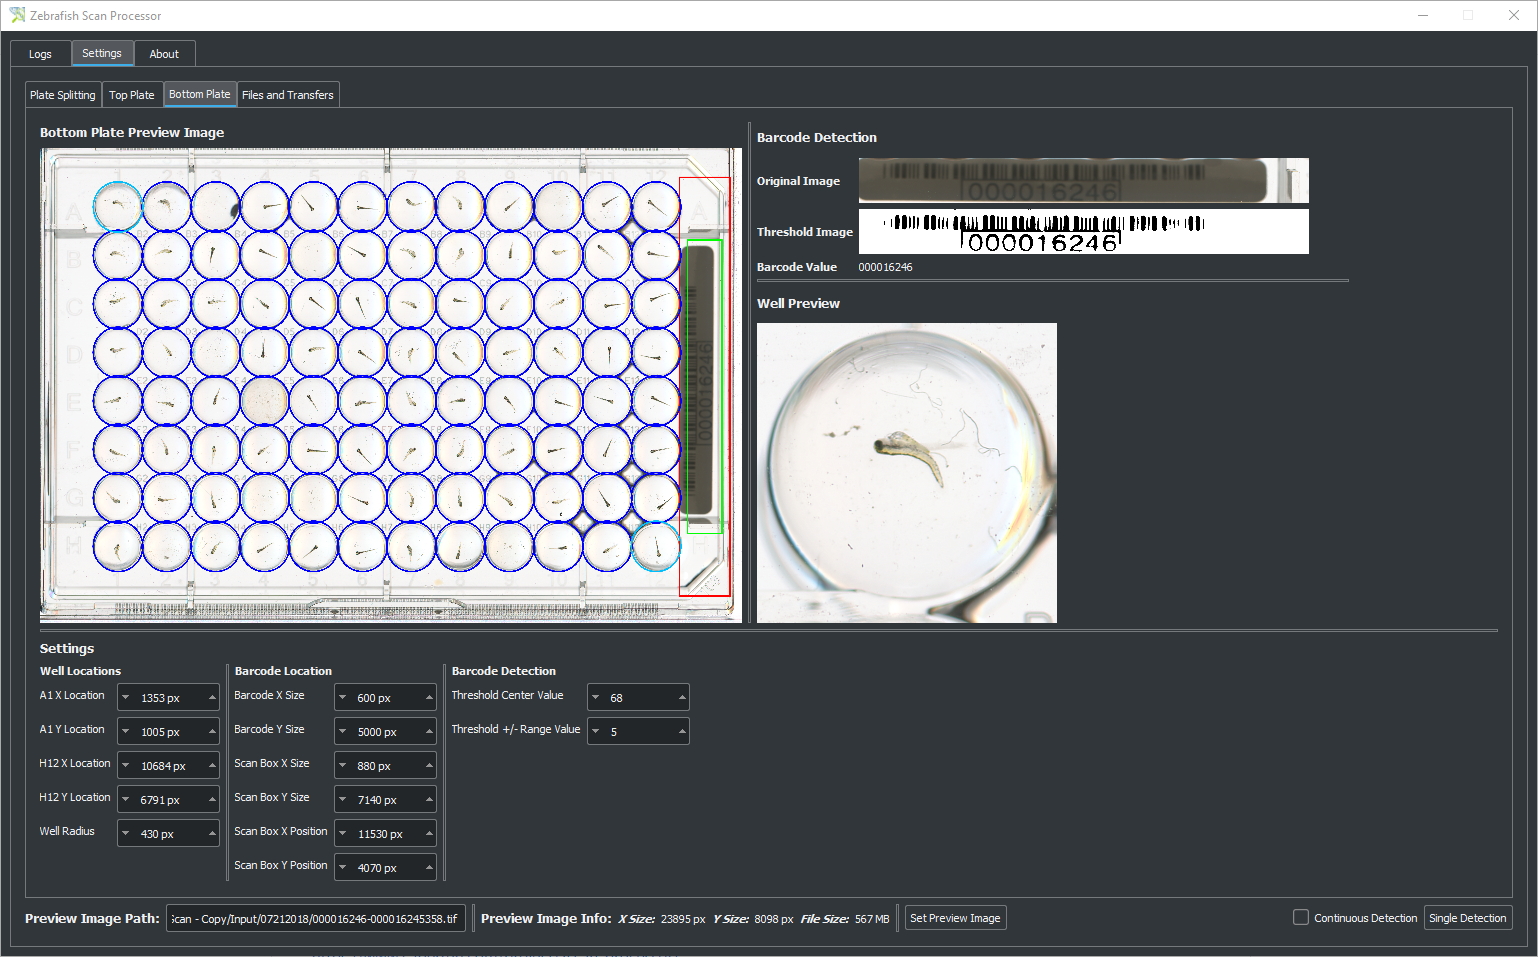
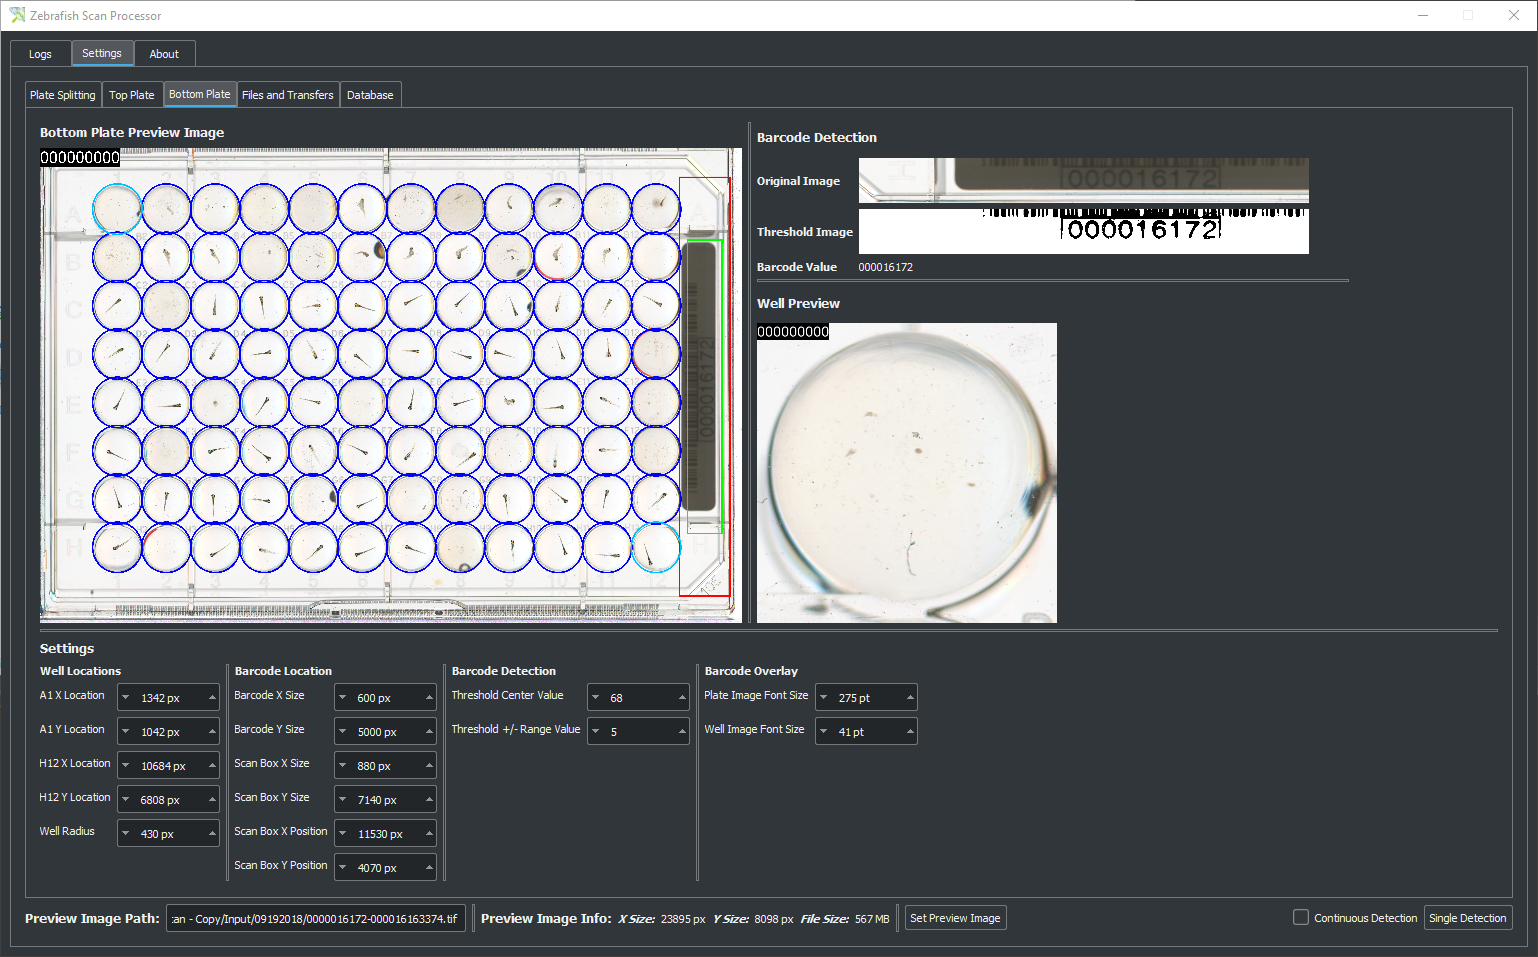
Readme updates for v1.1.0. About to release.

diff --git a/README.md b/README.md
@@ -7,18 +7,35 @@ This application processes high-resolution scanned images of 96-well scientific 
 3. Automatically detects the barcode on each plate to name the outputs automatically.
 4. Splits and names each well based on the scan creation datetime, plate number, and well location.
 5. Saves a compressed version of the individual plate image.
-6. At a designated time, transfers all processed plates to a network share (or specified folder).
+6. Writes the plate name to a MySQL database for quick auditing of completed plates.
+7. At a designated time, transfers all processed plates to a network share/designated transfer folder.
 
 ### Other Features
+* Overlays the detected barcode onto all processed images for easy sanity checking when analyzing images.
 * Minimizes to tray area for unobtrusive background processing.
 * Provides system notifications when plates are processed/fail.
 * Maintains logs of all detections, transfers, and failures.
 * Includes built-in calibration interface for easy adjustment to scanner and plate differences.
+* Allows for a custom MySQL insert string for easy adaptation to different database layouts (may add more features later).
 * Saves full-resolution backups of failed plates to ensure data is not lost.
 
+##### Special Note
+The database section of this program does NOT hash the password. It is stored in plaintext in the registry.
+Please keep this in mind when creating a MySQL user for this application.
+
 ## Screenshots
-### Processed Outputs Example
-![output]
+### Processed Outputs
+#### Full Plate
+![plate_example]
+
+#### Plate Well
+![well_example]
+
+#### Explorer Preview
+![explorer_preview]
+
+### Folder Structure
+![folder_structure]
 
 ### Logs Screen
 ![logs]
@@ -35,20 +52,31 @@ This application processes high-resolution scanned images of 96-well scientific 
 ### Settings - Files and Transfers
 ![settings_files_transfers]
 
+### Settings - Database
+![settings_database]
+
 ### System Notifications
 ![system_notification]
 
 ### Tray Icon
 ![tray_icon]
 
+### Example Database Output
+![database_output]
+
 [logs]:_screenshots_/logs.png
-[output]:_screenshots_/output.png
+[plate_example]:_screenshots_/plate_example.png
+[well_example]:_screenshots_/well_example.png
+[explorer_preview]:_screenshots_/output.png
+[folder_structure]:_screenshots_/folder_structure.png
 [settings_bottom]:_screenshots_/settings_bottom_plate.png
 [settings_top]:_screenshots_/settings_top_plate.png
 [settings_plate_split]:_screenshots_/settings_plate_splitting.png
 [settings_files_transfers]:_screenshots_/settings_files_and_transfers.png
+[settings_database]:_screenshots_/settings_database.png
 [system_notification]:_screenshots_/system_notification.png
 [tray_icon]:_screenshots_/tray_icon.png
+[database_output]:_screenshots_/database_output.png
 
 ## Build Information
 * Python 3.7 64-bit
